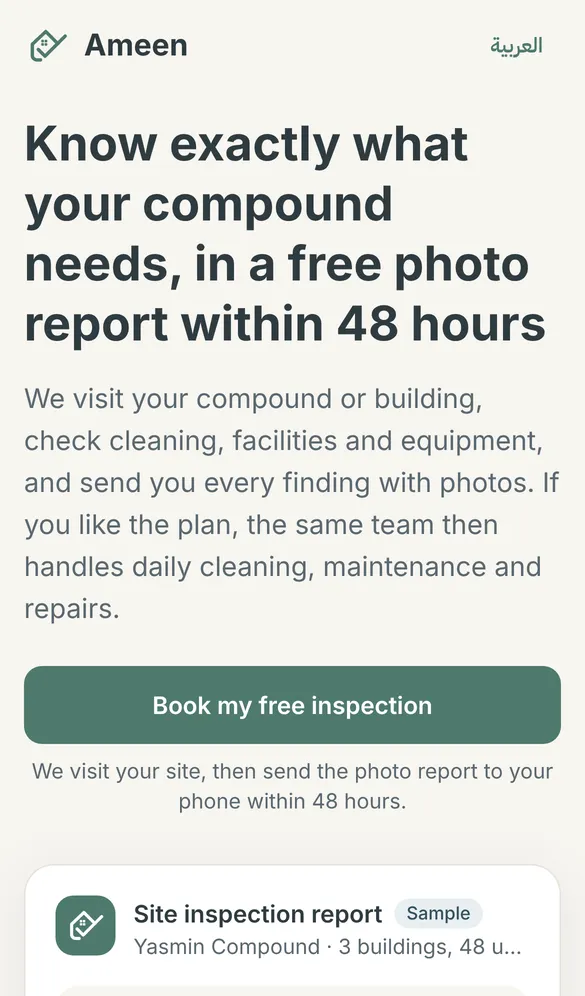
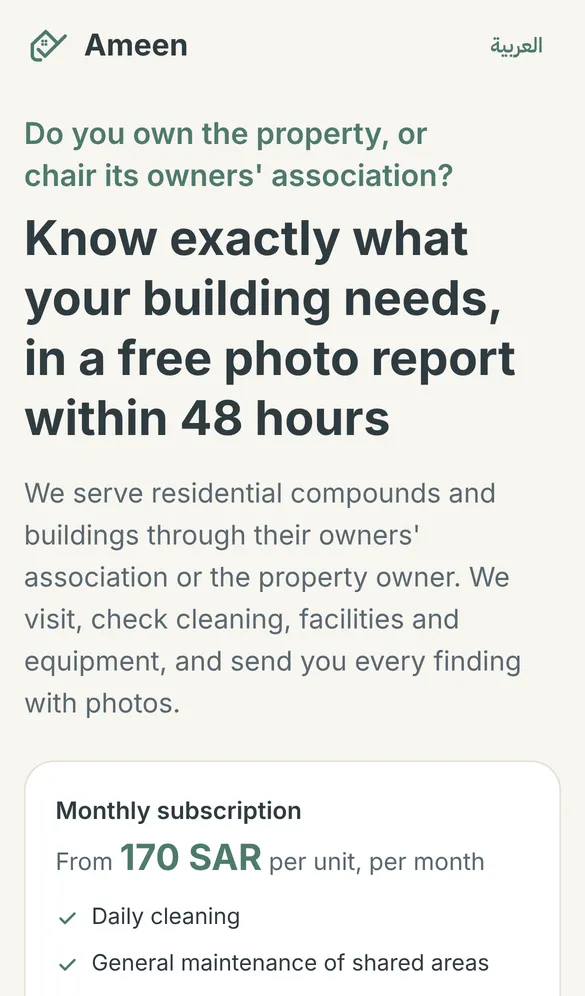
Target owners and owners' associations, show the 170 SAR plan
Headline opens with a qualifying question, the subscription price and
what it includes sit under the subheadline, the form asks who is booking
and stops single-unit residents, and leads store the role.

Claude-Session: https://claude.ai/code/session_0164fYkZisDwzWB9d9Sp8JbA

Changed region(s): [[0.0308, 0.1245, 0.9846, 0.996], [0.9231, 0.4669, 0.9538, 0.498]]

diff --git a/src/app/_landing/BookingForm.tsx b/src/app/_landing/BookingForm.tsx
@@ -4,7 +4,7 @@ import Link from "next/link";
 import { createLead } from "@/app/actions/lead";
 
 export type BookingStrings = {
-  progressLabel: string; p: string[];
+  progressLabel: string; p: string[]; q0: string; roles: string[]; roleNo: string;
   q1: string; types: string[]; q1b: string; sizes: string[];
   q2: string; needsL: string[]; q2hint: string;
   q3: string; fName: string; fNamePh: string; fPhone: string; fPhoneHint: string; fCity: string; fCityPh: string;
@@ -13,6 +13,7 @@ export type BookingStrings = {
   thanks: string; thanksSub: string; again: string;
 };
 
+const ROLE_KEYS = ["OWNER", "ASSOCIATION"] as const; // the third choice (single unit) is not a lead
 const TYPE_KEYS = ["COMPOUND", "BUILDING", "VILLAS"] as const;
 const SIZE_KEYS = ["LT20", "20_50", "50_150", "GT150"] as const;
 const NEED_KEYS = ["CLEANING", "INSPECTION", "MAINTENANCE", "REPAIR", "COLLECTION"] as const;
@@ -22,6 +23,7 @@ const chip = (on: boolean) =>
 
 export function BookingForm({ s }: { s: BookingStrings }) {
   const [step, setStep] = useState(1);
+  const [role, setRole] = useState<number | null>(null);
   const [type, setType] = useState<number | null>(null);
   const [size, setSize] = useState<number | null>(null);
   const [needs, setNeeds] = useState<boolean[]>([false, false, false, false, false]);
@@ -33,13 +35,13 @@ export function BookingForm({ s }: { s: BookingStrings }) {
   const [pending, start] = useTransition();
 
   const next = () => {
-    if (step === 1 && (type === null || size === null)) return setError(s.err1);
+    if (step === 1 && (role === null || role > 1 || type === null || size === null)) return setError(role === 2 ? null : s.err1);
     if (step === 2 && !needs.some(Boolean)) return setError(s.err2);
     if (step === 3) {
       if (name.trim().length < 2 || phone.trim().length < 9 || city.trim().length < 2) return setError(s.err3);
       return start(async () => {
         const res = await createLead({
-          name, phone, city,
+          name, phone, city, role: ROLE_KEYS[role!],
           siteType: TYPE_KEYS[type!], units: SIZE_KEYS[size!],
           services: NEED_KEYS.filter((_, i) => needs[i]),
         });
@@ -56,7 +58,7 @@ export function BookingForm({ s }: { s: BookingStrings }) {
         <span className="flex size-16 items-center justify-center rounded-full bg-done-bg text-3xl text-done-ink">✓</span>
         <h3 className="text-xl font-bold">{s.thanks}</h3>
         <p className="text-muted">{s.thanksSub}</p>
-        <button className="btn-quiet btn" onClick={() => { setSent(false); setStep(1); setType(null); setSize(null); setNeeds([false, false, false, false, false]); setName(""); setPhone(""); setCity(""); }}>
+        <button className="btn-quiet btn" onClick={() => { setSent(false); setStep(1); setRole(null); setType(null); setSize(null); setNeeds([false, false, false, false, false]); setName(""); setPhone(""); setCity(""); }}>
           {s.again}
         </button>
       </div>
@@ -76,6 +78,15 @@ export function BookingForm({ s }: { s: BookingStrings }) {
 
       {step === 1 && (
         <div className="flex flex-col gap-5">
+          <fieldset>
+            <legend className="mb-2 font-semibold">{s.q0}</legend>
+            <div className="grid gap-2">
+              {s.roles.map((l, i) => (
+                <button key={l} type="button" aria-pressed={role === i} className={chip(role === i)} onClick={() => { setRole(i); setError(null); }}>{l}</button>
+              ))}
+            </div>
+            {role === 2 && <p role="status" className="mt-2 rounded-xl bg-wait-bg px-3 py-2 text-sm text-wait-ink">{s.roleNo}</p>}
+          </fieldset>
           <fieldset>
             <legend className="mb-2 font-semibold">{s.q1}</legend>
             <div className="grid gap-2 sm:grid-cols-3">

diff --git a/src/app/page.tsx b/src/app/page.tsx
@@ -3,10 +3,12 @@ import { LangSwitch } from "@/components/LangSwitch";
 import { BookingForm } from "./_landing/BookingForm";
 import { HeroReport } from "./_landing/HeroReport";
 import { LegalFooter } from "./_landing/LegalFooter";
+import { PlanCard } from "./_landing/PlanCard";
 
 /*
  * Landing page. Built to docs/landing-page-playbook.pdf (see CLAUDE.md, "Landing page rules").
- * Order, top to bottom: headline, subheadline, hero image, CTA, form (+ justification line),
+ * Order, top to bottom: headline (qualifying question + promise), subheadline, price and what it
+ * includes (qualifies leads), hero image, CTA, form (+ justification line),
  * 3 objection bullets below the fold, social proof only when we have real proof, legal links.
  * No navigation menu and no second action: every element must raise qualified opt-ins.
  */
@@ -28,8 +30,12 @@ export default async function Landing() {
       <main className="flex-1">
         <section className="mx-auto grid max-w-6xl gap-8 px-4 pb-12 pt-4 md:grid-cols-[1.05fr_1fr] md:gap-12 md:pt-10">
           <div>
-            <h1 className="text-[2rem] font-bold leading-tight text-balance md:text-5xl md:leading-[1.15]">{L.headline}</h1>
+            <h1 className="text-balance">
+              <span className="block text-xl font-semibold leading-snug text-sage-deep md:text-2xl">{L.headlineQ}</span>
+              <span className="mt-2 block text-[2rem] font-bold leading-tight md:text-5xl md:leading-[1.15]">{L.headline}</span>
+            </h1>
             <p className="mt-4 max-w-xl text-lg text-muted">{L.sub}</p>
+            <PlanCard L={L} />
             <div className="mt-6 md:hidden">
               <a href="#book" className="btn-primary btn min-h-13 w-full text-base">{L.cta}</a>
               <p className="mt-2 text-center text-sm text-muted">{L.ctaHow}</p>

diff --git a/src/app/_landing/PlanCard.tsx b/src/app/_landing/PlanCard.tsx
@@ -1,0 +1,24 @@
+import type { Dict } from "@/i18n";
+
+/** The monthly subscription and what it includes. Price up front filters out leads it doesn't fit. */
+export function PlanCard({ L }: { L: Dict["landing"] }) {
+  return (
+    <section aria-labelledby="plan-title" className="mt-6 rounded-[20px] border border-line/70 bg-white p-5">
+      <div className="flex flex-wrap items-baseline justify-between gap-x-4 gap-y-1">
+        <h2 id="plan-title" className="font-semibold">{L.planTitle}</h2>
+        <p className="text-muted">
+          {L.planFrom} <span className="text-2xl font-bold text-sage-deep">{L.planPrice}</span> {L.planPer}
+        </p>
+      </div>
+      <ul className="mt-3 grid gap-x-4 gap-y-2 sm:grid-cols-2">
+        {L.planIncl.map((x) => (
+          <li key={x} className="flex items-start gap-2 text-[15px]">
+            <svg className="mt-1 shrink-0 text-sage-deep" width="16" height="16" viewBox="0 0 24 24" fill="none" stroke="currentColor" strokeWidth="2.4" strokeLinecap="round" strokeLinejoin="round" aria-hidden="true"><path d="M5 12.5l4.5 4.5L19 7.5" /></svg>
+            {x}
+          </li>
+        ))}
+      </ul>
+      <p className="mt-3 text-sm text-muted">{L.planNote}</p>
+    </section>
+  );
+}

diff --git a/src/app/admin/leads/page.tsx b/src/app/admin/leads/page.tsx
@@ -24,7 +24,7 @@ export default async function Leads() {
                   <a href={`https://wa.me/${l.phone.replace("+", "")}`} target="_blank" rel="noreferrer" className="text-sage-deep">WhatsApp</a>
                 </p>
                 <p className="mt-1 text-sm text-muted">
-                  {t(`siteType.${l.siteType}` as never)} · {l.units} {t("leads.units")}{l.city ? ` · ${l.city}` : ""}
+                  {l.role ? `${t(`leadRole.${l.role}` as never)} · ` : ""}{t(`siteType.${l.siteType}` as never)} · {l.units} {t("leads.units")}{l.city ? ` · ${l.city}` : ""}
                 </p>
                 <p className="text-sm text-muted">{l.services.split(",").map((s) => t(`service.${s}` as never)).join("، ")}</p>
                 <p className="mt-1 text-xs text-muted">{fmtDateTime(l.createdAt)}</p>

diff --git a/src/app/actions/lead.ts b/src/app/actions/lead.ts
@@ -9,6 +9,7 @@ const Lead = z.object({
   name: z.string().trim().min(2).max(80),
   phone: z.string(),
   city: z.string().trim().min(2).max(60),
+  role: z.enum(["OWNER", "ASSOCIATION"]),
   siteType: z.enum(["COMPOUND", "BUILDING", "VILLAS"]),
   units: z.enum(["LT20", "20_50", "50_150", "GT150"]),
   services: z.array(z.enum(["CLEANING", "INSPECTION", "MAINTENANCE", "REPAIR", "COLLECTION"])).min(1),

diff --git a/docs/landing-page/README.md b/docs/landing-page/README.md
@@ -14,14 +14,15 @@ pre-launch checklist. Update it whenever the landing page changes.
 
 ## 1. Headline
 
-- Who is this for: owners and managers of residential compounds, apartment buildings and villa groups in Saudi Arabia.
+- Who is this for: the property owner or the owners' association (اتحاد الملاك) of a residential compound or building in Saudi Arabia. Ameen does not contract with individual residents or single-unit owners (Ali, 19 Nov 2026).
 - Outcome they want most: know the real state of their property and get it looked after without chasing contractors.
-- Headline: **"Know exactly what your compound needs, in a free photo report within 48 hours"** · «اعرف احتياج مجمعك بالضبط، بتقرير مجاني بالصور خلال 48 ساعة»
+- Headline, opening with a qualifying question (Ali's request): **"Do you own the property, or chair its owners' association? Know exactly what your building needs, in a free photo report within 48 hours"** · «هل أنت مالك العقار أو رئيس اتحاد الملاك في مبناك؟ اعرف احتياج مبناك بالضبط، بتقرير مجاني بالصور خلال 48 ساعة»
 
 ## 2. Subheadline
 
 - Skeptic's question: "How? And then what?"
-- Subheadline: "We visit your compound or building, check cleaning, facilities and equipment, and send you every finding with photos. If you like the plan, the same team then handles daily cleaning, maintenance and repairs."
+- Subheadline: "We serve residential compounds and buildings through their owners' association or the property owner. We visit, check cleaning, facilities and equipment, and send you every finding with photos."
+- Price and what it includes, right under the subheadline, because a visible price qualifies leads: from 170 SAR per unit per month, including daily cleaning, general maintenance of shared areas, 3 free maintenance visits a year for each unit, elevator maintenance, security camera system maintenance and garden maintenance. Yearly contract, billed monthly.
 
 ## 3. Hero image
 
@@ -36,8 +37,9 @@ pre-launch checklist. Update it whenever the landing page changes.
 
 ## 5. Form
 
-- Qualified lead: a property with shared areas to look after (compound, building or villas), its size, its city, and the services they need.
-- Fields (6): property type, number of units, services, name, mobile, city. More than 5, so 3 steps, easiest first (tap choices before typing).
+- Qualified lead: the property owner or owners' association of a building with shared areas (compound, building or villas), its size, its city, and the services they need.
+- Fields (7): who they are, property type, number of units, services, name, mobile, city. More than 5, so 3 steps, easiest first (tap choices before typing).
+- Choosing "a resident or owner of one unit" stops the form and asks them to share the page with their owner or association.
 - City is required because location decides whether we can serve them.
 
 ## 6. Justification line
@@ -46,9 +48,9 @@ pre-launch checklist. Update it whenever the landing page changes.
 
 ## 7. Objection bullets (below the fold, most common first)
 
-1. Price and risk: "Is it really free?"
+1. Price and risk: "Is the inspection really free?" (also restates the 170 SAR subscription)
 2. Trust: "How do I know the work gets done?"
-3. Fit: "Will it fit my property?"
+3. Fit: "Do you work with individual residents?"
 
 This order is a first guess. Re-rank from real sales calls and WhatsApp questions once the pilot starts.
 
@@ -61,7 +63,7 @@ This order is a first guess. Re-rank from real sales calls and WhatsApp question
 
 - Removed: navigation menu, sign-in link, second CTA, services grid, how-it-works, why-us, FAQ, closing banner, social links. (Existing users sign in at `/login` directly.)
 - Kept: logo, language switch (the page must work in Arabic and English).
-- Target: under 300 KB transferred and LCP under 2.5 s on a mid-range phone on 4G. Measured on a local production build: 189 KB (Arabic, phone), 228 KB (English, phone); the hero uses no raster images.
+- Target: under 300 KB transferred and LCP under 2.5 s on a mid-range phone on 4G. Measured on a local production build: about 255 KB on phone in both languages; the hero uses no raster images.
 
 ## 10. Legal
 
